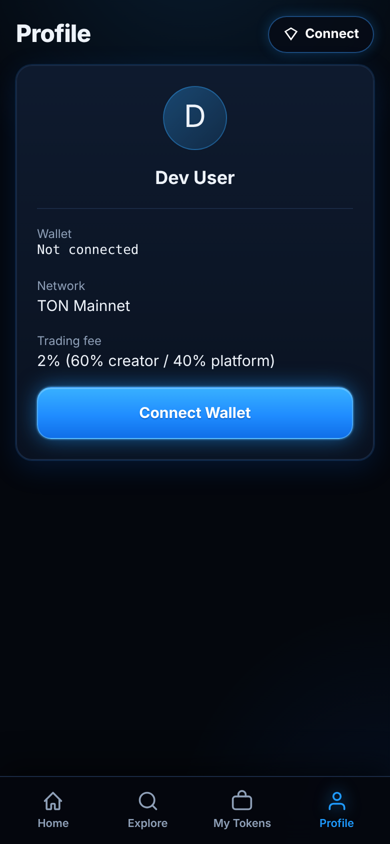
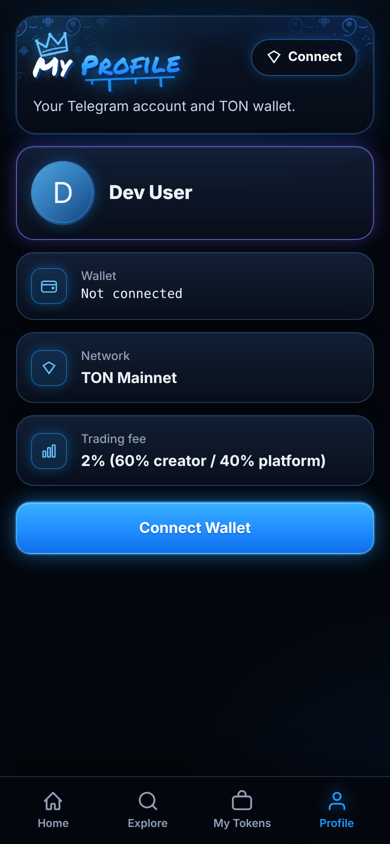
Give Profile the Home page look (graffiti hero, glowing rows)
Claude-Session: https://claude.ai/code/session_01T9qLW6n8nNRdnFArzaGcQM

Changed region(s): [[0.0, 0.0, 0.9846, 0.6777], [0.6154, 0.0, 0.9846, 0.0924]]

diff --git a/src/pages/Profile.tsx b/src/pages/Profile.tsx
@@ -1,8 +1,11 @@
+import { BrandHero } from '../components/Brand';
 import { ConnectButton } from '../components/ConnectButton';
+import { IconTon, IconWallet, IconChart } from '../components/Icons';
 import { TokenAvatar } from '../components/TokenAvatar';
 import { useAuth } from '../context/AuthContext';
 import { useWallet } from '../context/WalletContext';
 import { CONFIG, walletDisplayAddress } from '../lib/config';
+import styles from './Profile.module.css';
 
 export function Profile() {
   const { user, isTelegram, loading } = useAuth();
@@ -11,64 +14,68 @@ export function Profile() {
   if (loading) {
     return (
       <div className="page">
-        <p className="muted" style={{ textAlign: 'center', marginTop: 48 }}>Loading profile...</p>
+        <p className="muted loading-pulse">Loading profile...</p>
       </div>
     );
   }
 
   return (
-    <div className="page">
-      <header className="home-header">
-        <h1 className="home-title">Profile</h1>
-        <ConnectButton compact />
-      </header>
+    <div className={`page ${styles.page}`}>
+      <BrandHero
+        title="My"
+        accent="Profile"
+        aside={<ConnectButton compact />}
+        subtitle="Your Telegram account and TON wallet."
+      />
 
-      <div className="card" style={{ padding: 20, display: 'flex', flexDirection: 'column', gap: 16, alignItems: 'center' }}>
-        <TokenAvatar
-          emoji={user?.firstName?.[0] ?? '👤'}
-          color="#30A1F5"
-          size={64}
-          imageUrl={user?.photoUrl}
-        />
-        <div style={{ textAlign: 'center' }}>
-          <strong style={{ fontSize: 18 }}>
-            {user?.firstName ?? 'Guest'}
-            {user?.username ? ` @${user.username}` : ''}
-          </strong>
-          {isTelegram && (
-            <p className="muted" style={{ fontSize: 12, marginTop: 4 }}>Telegram Mini App</p>
-          )}
+      <div className={styles.userRow}>
+        <span className={styles.avatarRing}>
+          <TokenAvatar emoji={user?.firstName?.[0] ?? '👤'} color="#30A1F5" size={60} imageUrl={user?.photoUrl} />
+        </span>
+        <div className={styles.userNames}>
+          <strong>{user?.firstName ?? 'Guest'}</strong>
+          {user?.username && <span className={styles.handle}>@{user.username}</span>}
+          {isTelegram && <span className={styles.tag}>Telegram Mini App</span>}
         </div>
-
-        <hr style={{ width: '100%', border: 'none', borderTop: '1px solid var(--border)' }} />
-
-        <div style={{ width: '100%' }}>
-          <p className="muted" style={{ fontSize: 12 }}>Wallet</p>
-          <p style={{ fontFamily: 'monospace', fontSize: 13, wordBreak: 'break-all' }}>
-            {connected && address ? walletDisplayAddress(address) : 'Not connected'}
-          </p>
-        </div>
-
-        <div style={{ width: '100%' }}>
-          <p className="muted" style={{ fontSize: 12 }}>Network</p>
-          <p>{CONFIG.network === 'mainnet' ? 'TON Mainnet' : 'TON Testnet'}</p>
-        </div>
-
-        <div style={{ width: '100%' }}>
-          <p className="muted" style={{ fontSize: 12 }}>Trading fee</p>
-          <p>{CONFIG.tradeFeePercent}% ({CONFIG.creatorFeeShare}% creator / {CONFIG.platformFeeShare}% platform)</p>
-        </div>
-
-        <button
-          type="button"
-          className={connected ? 'btn-secondary' : 'btn-primary'}
-          style={{ width: '100%' }}
-          onClick={connected ? disconnect : connect}
-        >
-          {connected ? `Disconnect ${friendlyAddress}` : 'Connect Wallet'}
-        </button>
       </div>
+
+      <div className={styles.infoRow}>
+        <span className={styles.infoIcon}>
+          <IconWallet size={16} />
+        </span>
+        <div className={styles.infoText}>
+          <span className={styles.infoLabel}>Wallet</span>
+          <span className={styles.mono}>{connected && address ? walletDisplayAddress(address) : 'Not connected'}</span>
+        </div>
+      </div>
+
+      <div className={styles.infoRow}>
+        <span className={styles.infoIcon}>
+          <IconTon size={16} />
+        </span>
+        <div className={styles.infoText}>
+          <span className={styles.infoLabel}>Network</span>
+          <span>{CONFIG.network === 'mainnet' ? 'TON Mainnet' : 'TON Testnet'}</span>
+        </div>
+      </div>
+
+      <div className={styles.infoRow}>
+        <span className={styles.infoIcon}>
+          <IconChart size={16} />
+        </span>
+        <div className={styles.infoText}>
+          <span className={styles.infoLabel}>Trading fee</span>
+          <span>{CONFIG.tradeFeePercent}% ({CONFIG.creatorFeeShare}% creator / {CONFIG.platformFeeShare}% platform)</span>
+        </div>
+      </div>
+
+      <button
+        type="button"
+        className={`${connected ? 'btn-secondary' : 'btn-primary'} ${styles.walletBtn}`}
+        onClick={connected ? disconnect : connect}
+      >
+        {connected ? `Disconnect ${friendlyAddress}` : 'Connect Wallet'}
+      </button>
     </div>
   );
 }
-

diff --git a/src/pages/Profile.module.css b/src/pages/Profile.module.css
@@ -1,0 +1,104 @@
+/* Same look as Home: graffiti hero, glowing rows, glowing primary button. */
+.page {
+  gap: 14px;
+}
+
+.userRow,
+.infoRow {
+  display: flex;
+  align-items: center;
+  gap: 14px;
+  padding: 14px;
+  border-radius: 18px;
+  border: 1px solid var(--border-subtle);
+  background: linear-gradient(180deg, rgba(20, 34, 58, 0.85), rgba(9, 15, 27, 0.95));
+  box-shadow: inset 0 1px 0 rgba(108, 196, 255, 0.08), 0 6px 24px rgba(0, 0, 0, 0.35);
+}
+
+.userRow {
+  border-color: rgba(138, 120, 255, 0.65);
+  box-shadow: 0 0 18px rgba(110, 90, 255, 0.35), inset 0 1px 0 rgba(180, 170, 255, 0.12);
+}
+
+.avatarRing {
+  border-radius: 50%;
+  padding: 2px;
+  background: linear-gradient(135deg, rgba(108, 196, 255, 0.8), rgba(10, 92, 216, 0.4));
+  box-shadow: 0 0 14px rgba(31, 155, 255, 0.35);
+  flex-shrink: 0;
+  display: flex;
+}
+
+.userNames {
+  min-width: 0;
+  display: flex;
+  flex-direction: column;
+  gap: 2px;
+}
+
+.userNames strong {
+  font-size: 19px;
+  font-weight: 800;
+  letter-spacing: -0.01em;
+}
+
+.handle {
+  font-size: 14px;
+  color: var(--text-muted);
+}
+
+.tag {
+  align-self: flex-start;
+  margin-top: 4px;
+  padding: 2px 10px;
+  border-radius: 999px;
+  border: 1.5px solid var(--ton-blue);
+  background: rgba(31, 155, 255, 0.12);
+  color: var(--ton-blue-light);
+  font-size: 12px;
+  font-weight: 700;
+}
+
+.infoIcon {
+  width: 36px;
+  height: 36px;
+  border-radius: 10px;
+  display: flex;
+  align-items: center;
+  justify-content: center;
+  flex-shrink: 0;
+  color: var(--ton-blue-light);
+  background: rgba(31, 155, 255, 0.14);
+  border: 1px solid rgba(31, 155, 255, 0.45);
+  box-shadow: 0 0 12px rgba(31, 155, 255, 0.35);
+}
+
+.infoText {
+  min-width: 0;
+  display: flex;
+  flex-direction: column;
+  gap: 2px;
+  font-size: 15px;
+  font-weight: 700;
+}
+
+.infoLabel {
+  font-size: 12px;
+  font-weight: 500;
+  color: var(--text-muted);
+}
+
+.mono {
+  font-family: ui-monospace, SFMono-Regular, Menlo, monospace;
+  font-size: 13px;
+  font-weight: 500;
+  word-break: break-all;
+}
+
+.walletBtn {
+  width: 100%;
+  font-size: 16px;
+  padding: 15px 20px;
+  border-radius: 16px;
+  margin-top: 4px;
+}
